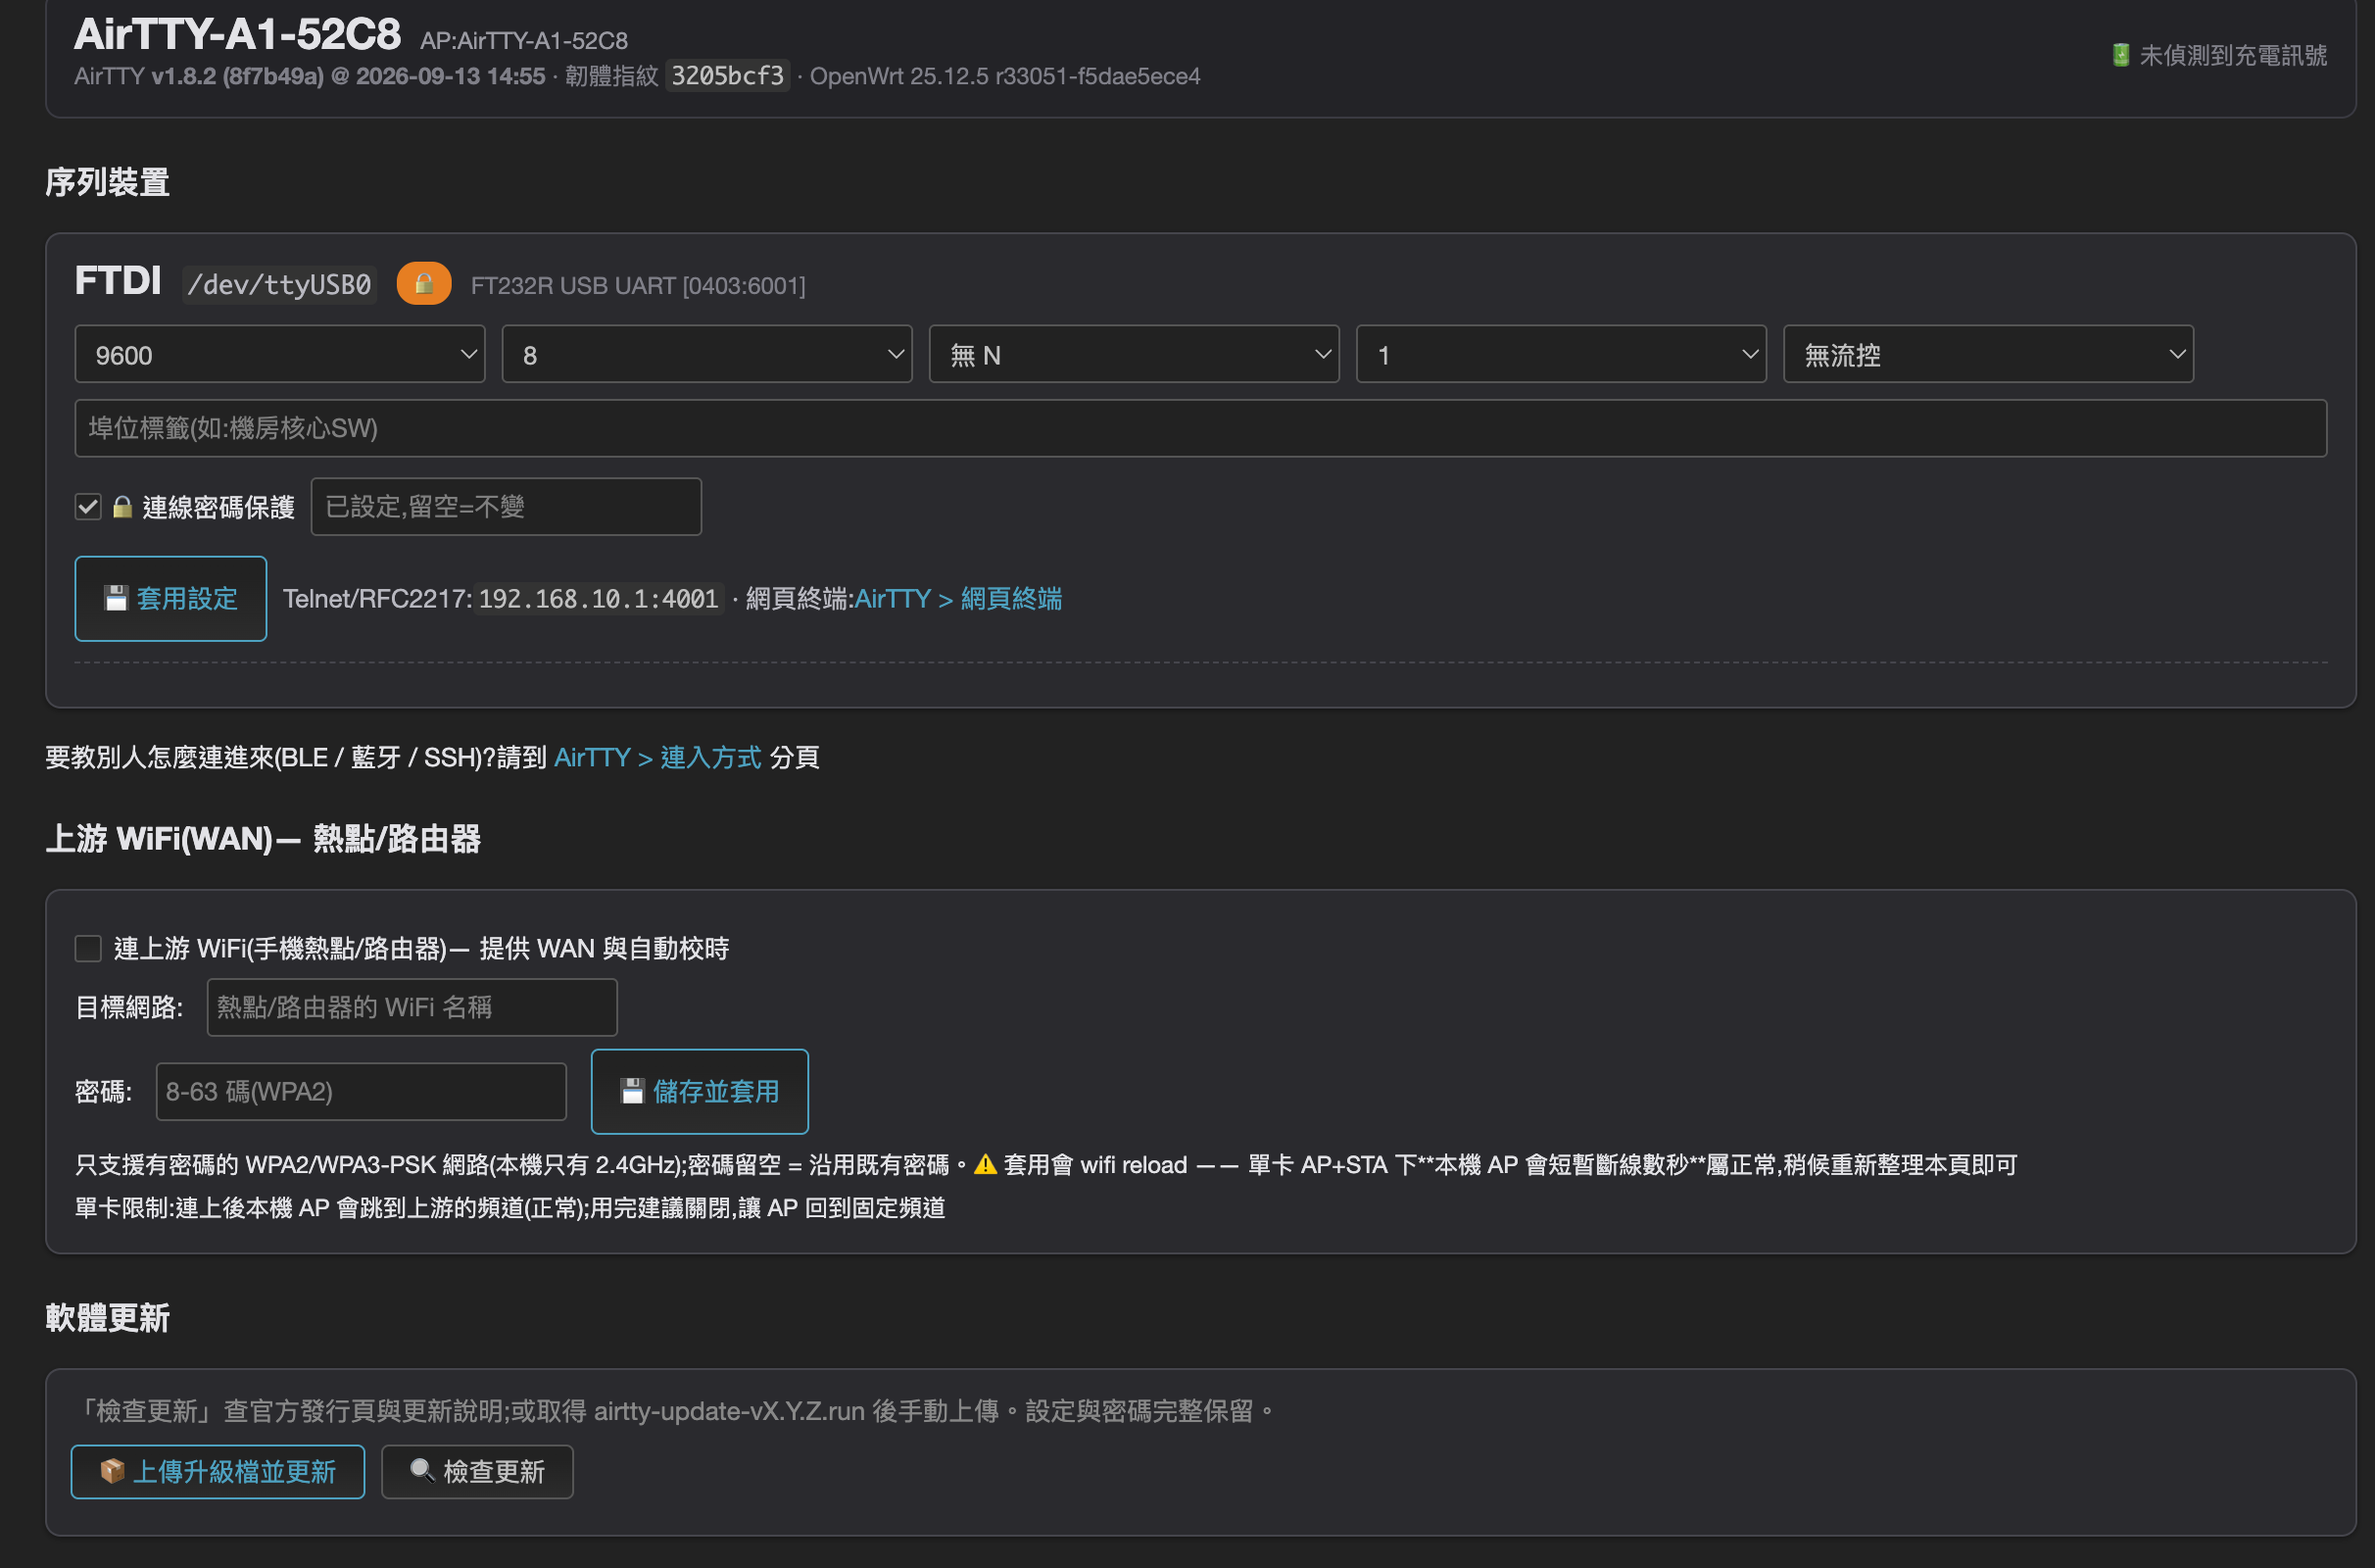
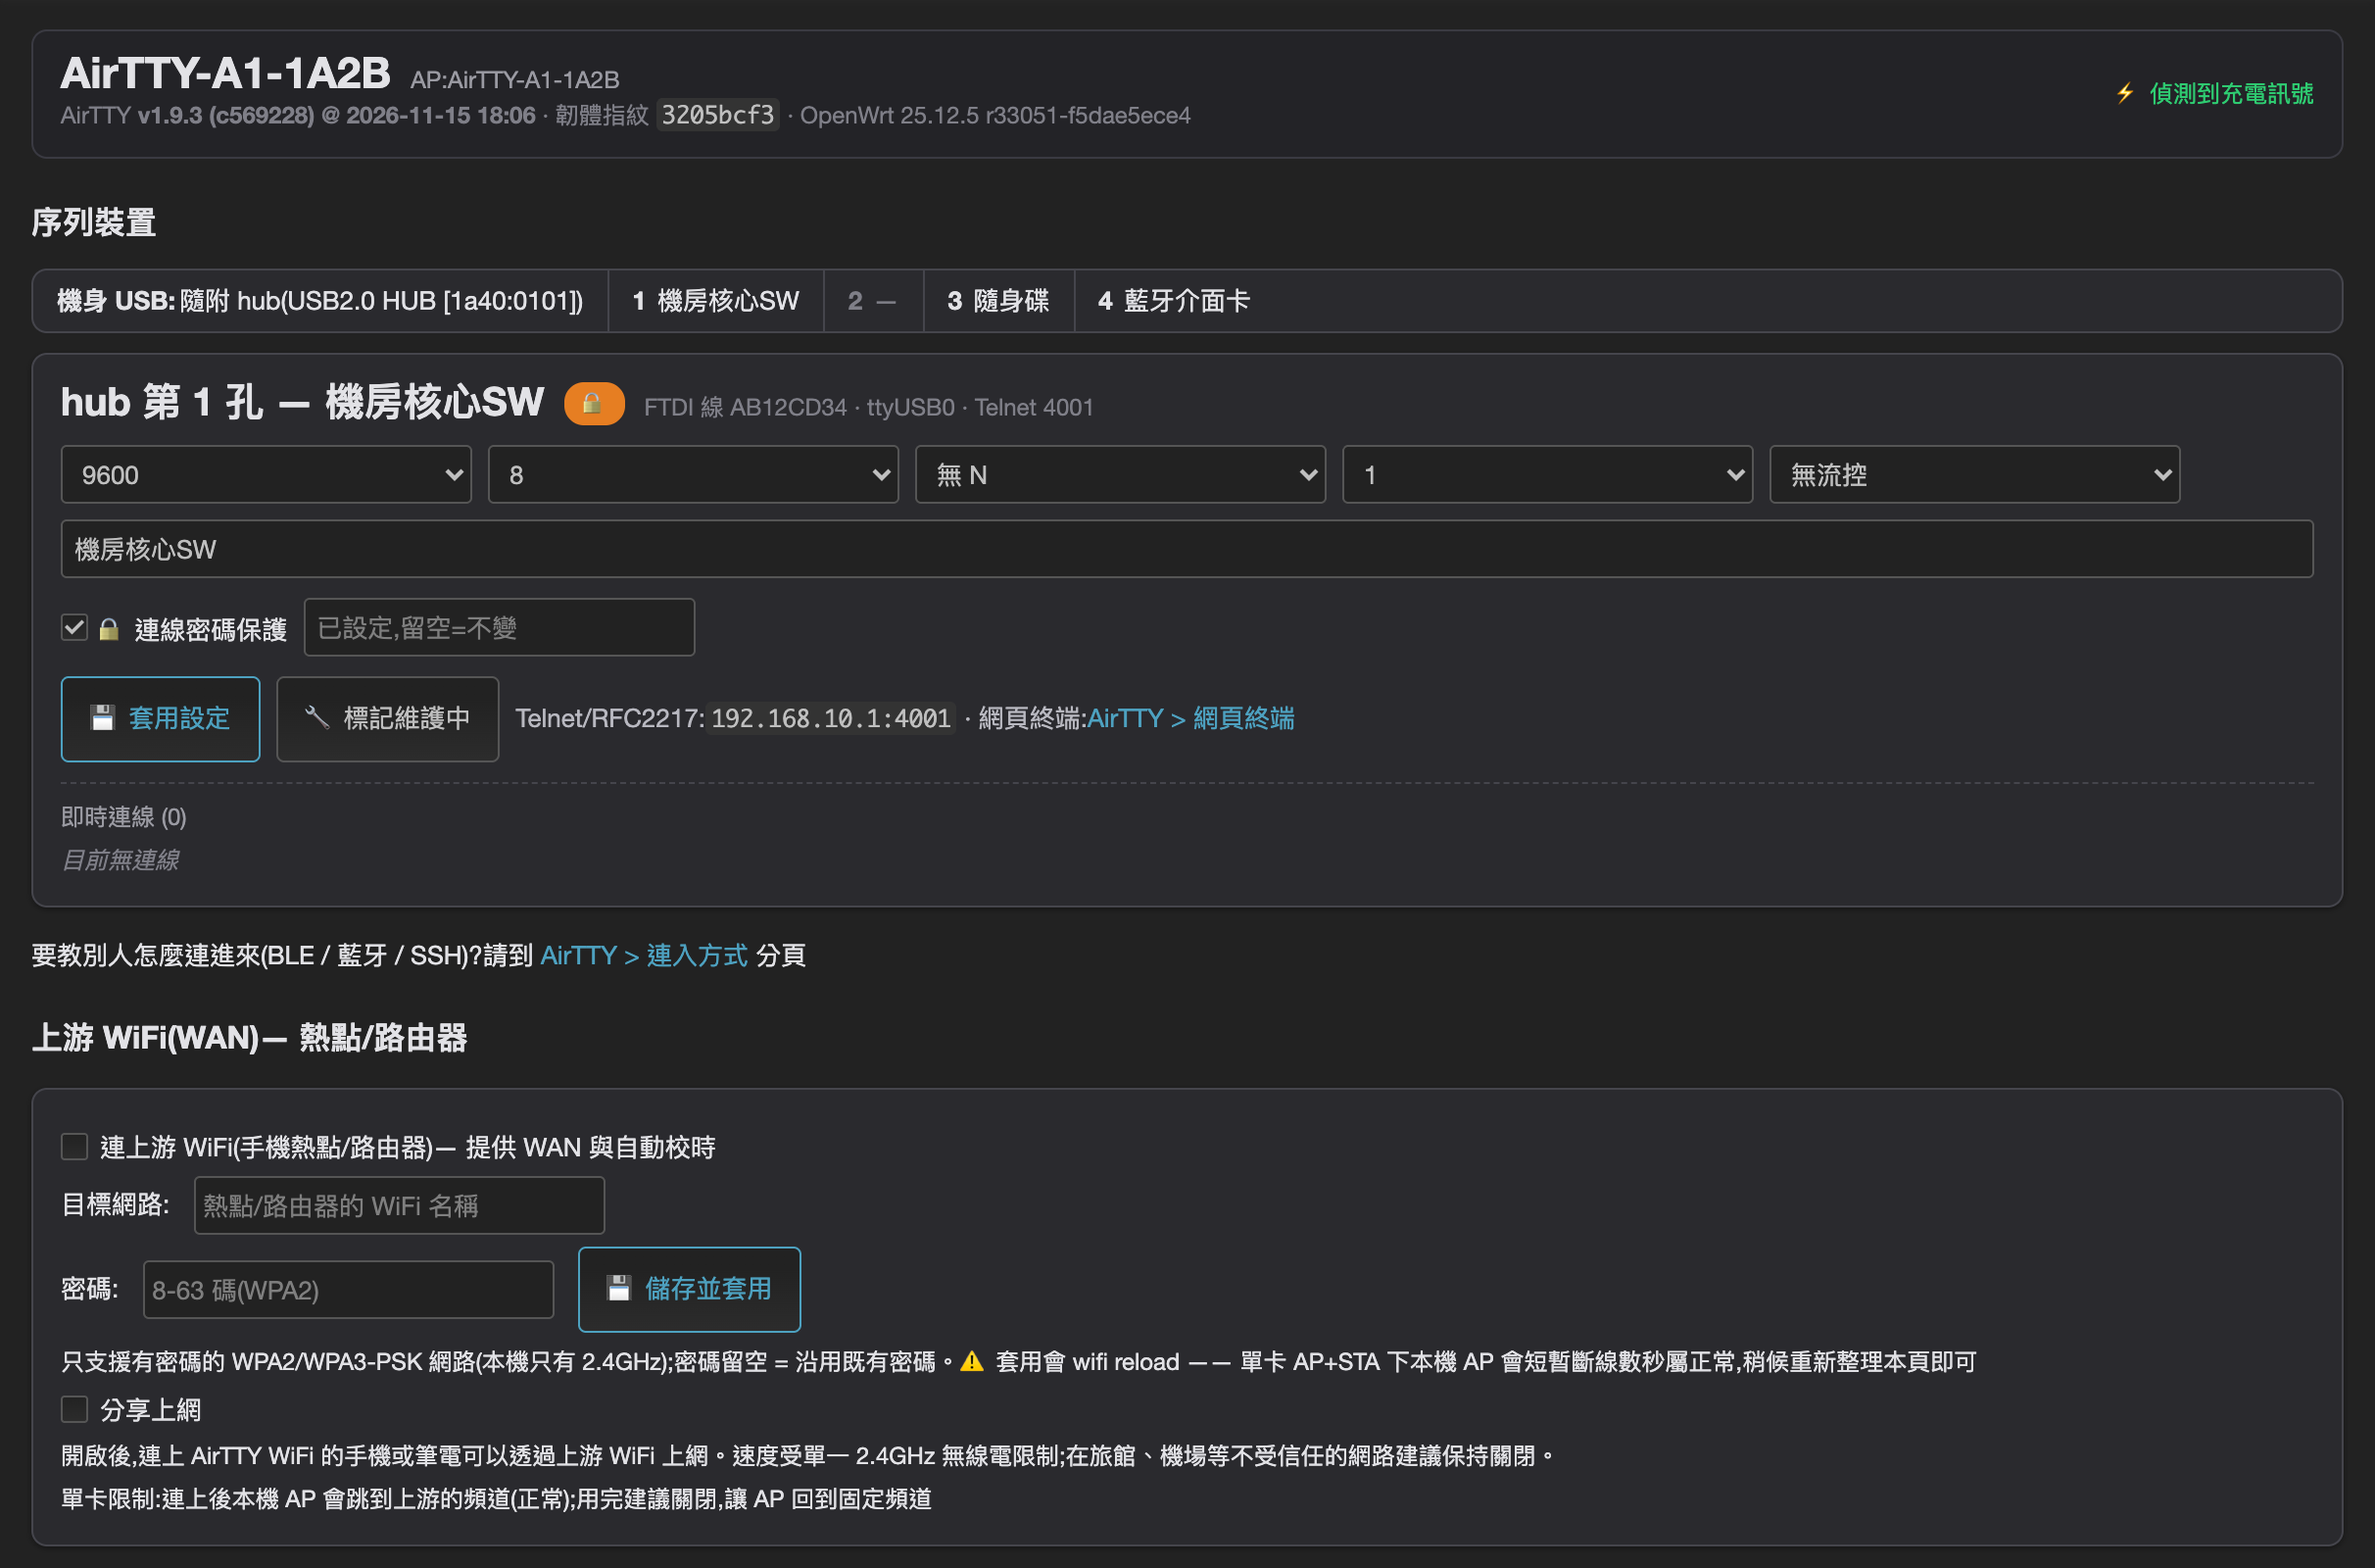
docs(manual): 重拍 v1.9 畫面 4 張(04 儀表板總覽、05 USB 面板與裝置卡、06 網頁終端、13 MCP 卡),圖說改成 v1.9.3、刪掉「上圖是 v1.8」註記
裝置名稱、線的序號與 token 為示意值。

diff --git a/README.md b/README.md
@@ -101,9 +101,9 @@ AirTTY 上、另一端接到交換器／路由器／防火牆／伺服器的 con
   鮑率、資料位元、校驗、停止位元、流量控制**全部在網頁上點選設定**，不必打任何指令。
 
 <p align="center">
-  <img src="docs/images/05-serial-device-card.png" alt="儀表板的序列裝置卡：顯示晶片型號與 USB ID，鮑率等參數用下拉選單設定">
+  <img src="docs/images/05-serial-device-card.png" alt="儀表板的 USB 面板與序列裝置卡：標題是孔名加標籤，右邊寫這孔接的線，鮑率等參數用下拉選單設定">
   <br>
-  <sub>插上 USB 序列轉接線，儀表板自動長出裝置卡 —— 晶片型號、USB ID 一目了然，參數全在網頁點選</sub>
+  <sub>插上 USB 序列轉接線，儀表板自動標出插在哪個孔、長出裝置卡 —— 晶片與序號一目了然，參數全在網頁點選</sub>
 </p>
 
 - **檔案伺服器** —— 把韌體檔上傳到 AirTTY，讓設備自己用 TFTP／HTTP／FTP／SCP 抓檔升級。
